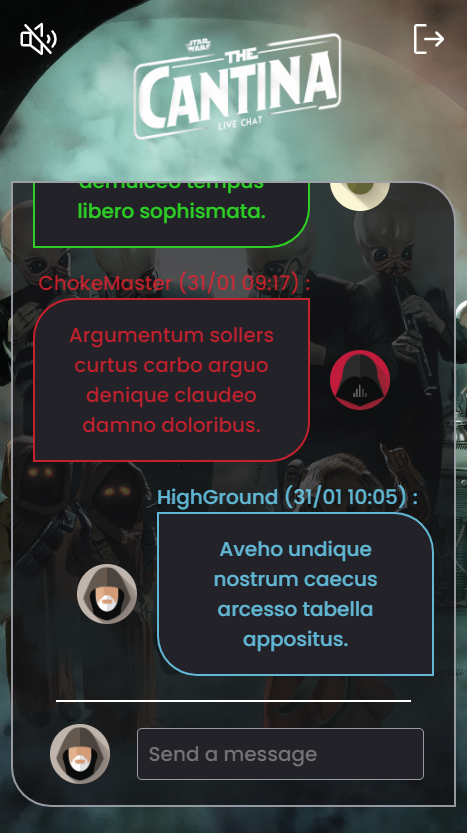
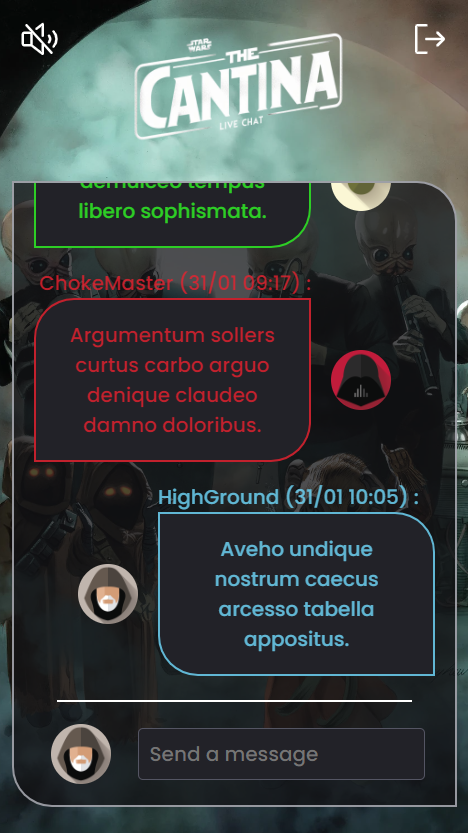
css adjustments

diff --git a/frontend/src/components/CantinaChat/cantinaChat.scss b/frontend/src/components/CantinaChat/cantinaChat.scss
@@ -86,7 +86,7 @@
 
     &__input {
       background-color: $inputBg;
-      border: 1px solid $whiteGrey;
+      border: 1px solid $inputBorder;
       border-radius: 4px;
       position: relative;
       padding: 0.5rem;

diff --git a/frontend/src/components/UserProfile/userProfile.scss b/frontend/src/components/UserProfile/userProfile.scss
@@ -89,6 +89,7 @@
     width: 30%;
     height: 2rem;
     background-color: $inputBg;
+    border: 1px solid $inputBorder;
     border-radius: 4px;
     padding: 0 0.5rem;
     cursor: pointer;
